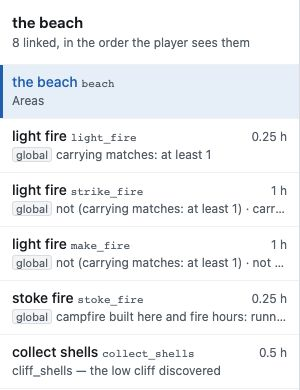
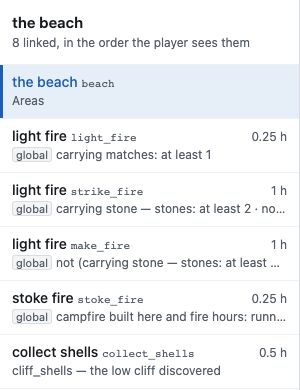
UX-07 review fix: distinguishing part first

Changed region(s): [[0.45, 0.6462, 0.93, 0.7077], [0.18, 0.5231, 0.93, 0.5538]]

diff --git a/tests/studio/entity-list.test.ts b/tests/studio/entity-list.test.ts
@@ -69,13 +69,22 @@ it("removes only parts shared by all same-named visible beach activities", () =>
     expect(text).not.toContain("fire hours");
   }
   expect(texts[0]).toMatch(/^carrying matches/);
-  expect(texts[1]).toMatch(/^not \(carrying matches.* · carrying stone/);
-  expect(texts[2]).toMatch(/^not \(carrying matches.* · not \(carrying stone/);
+  expect(texts[1]).toMatch(/^carrying stone.* · not \(carrying matches/);
+  expect(texts[2]).toMatch(/^not \(carrying stone.* · not \(carrying matches/);
   const unique = distinguishingMeta([fire[0]], fixtureDocuments).get(fire[0].path)!;
   expect(unique).toContain("campfire built here");
   expect(unique).not.toMatch(/^\(/);
   const fallback = distinguishingMeta([fire[0], { ...fire[0], path: "copy" }], fixtureDocuments);
   expect(fallback.get("copy")).toBe(`(${unique})`);
+});
+
+it("keeps original order between equally frequent distinguishing parts", () => {
+  const flags = [["first", "shared", "second"], ["shared", "other"], ["third"]];
+  const rows = documents.map((document, index) => ({
+    ...document, raw: { visibleWhen: { all: flags[index].map(flag => ({ flag })) } },
+  }));
+  expect(distinguishingMeta(rows, fixtureDocuments).get(rows[0].path))
+    .toBe("flag first is set · flag second is set · flag shared is set");
 });
 
 it("unwraps a unique top-level any group and falls back to requirements or always", () => {

diff --git a/src/studio/shell/EntityList.tsx b/src/studio/shell/EntityList.tsx
@@ -16,7 +16,9 @@ export function distinguishingMeta(rows: Document[], documents: Document[]): Map
   });
   return new Map(activities.map(activity => {
     const peers = activities.filter(other => other.row.label === activity.row.label);
-    const unique = activity.parts.filter(part => !peers.every(peer => peer.parts.includes(part)));
+    const frequency = (part: string) => peers.filter(peer => peer.parts.includes(part)).length;
+    const unique = activity.parts.filter(part => !peers.every(peer => peer.parts.includes(part)))
+      .sort((a, b) => frequency(a) - frequency(b));
     return [activity.row.path, peers.length > 1 ? unique.join(" · ") || activity.full : activity.unwrapped];
   }));
 }

diff --git a/docs/mockups/studio/README.md b/docs/mockups/studio/README.md
@@ -508,6 +508,7 @@ All captures use a disposable copy of frozen fixture content; no content is writ
   rather than handcrafted shorthand. Same-named visible activities omit condition parts shared
   by every peer; unique names omit outer group parentheses. Long metadata uses ellipsis and a
   full-text title.
+  Remaining parts appear least-shared first, preserving original order for equal frequencies.
   Item rows show category and tool tags; other kinds retain their kind label. Unsaved retains
   its text as well as a warning dot. Top-bar Create remains until UX-08.
 - Columns retain page scrolling and phone stacking. The desktop sidebar/list use the specified
